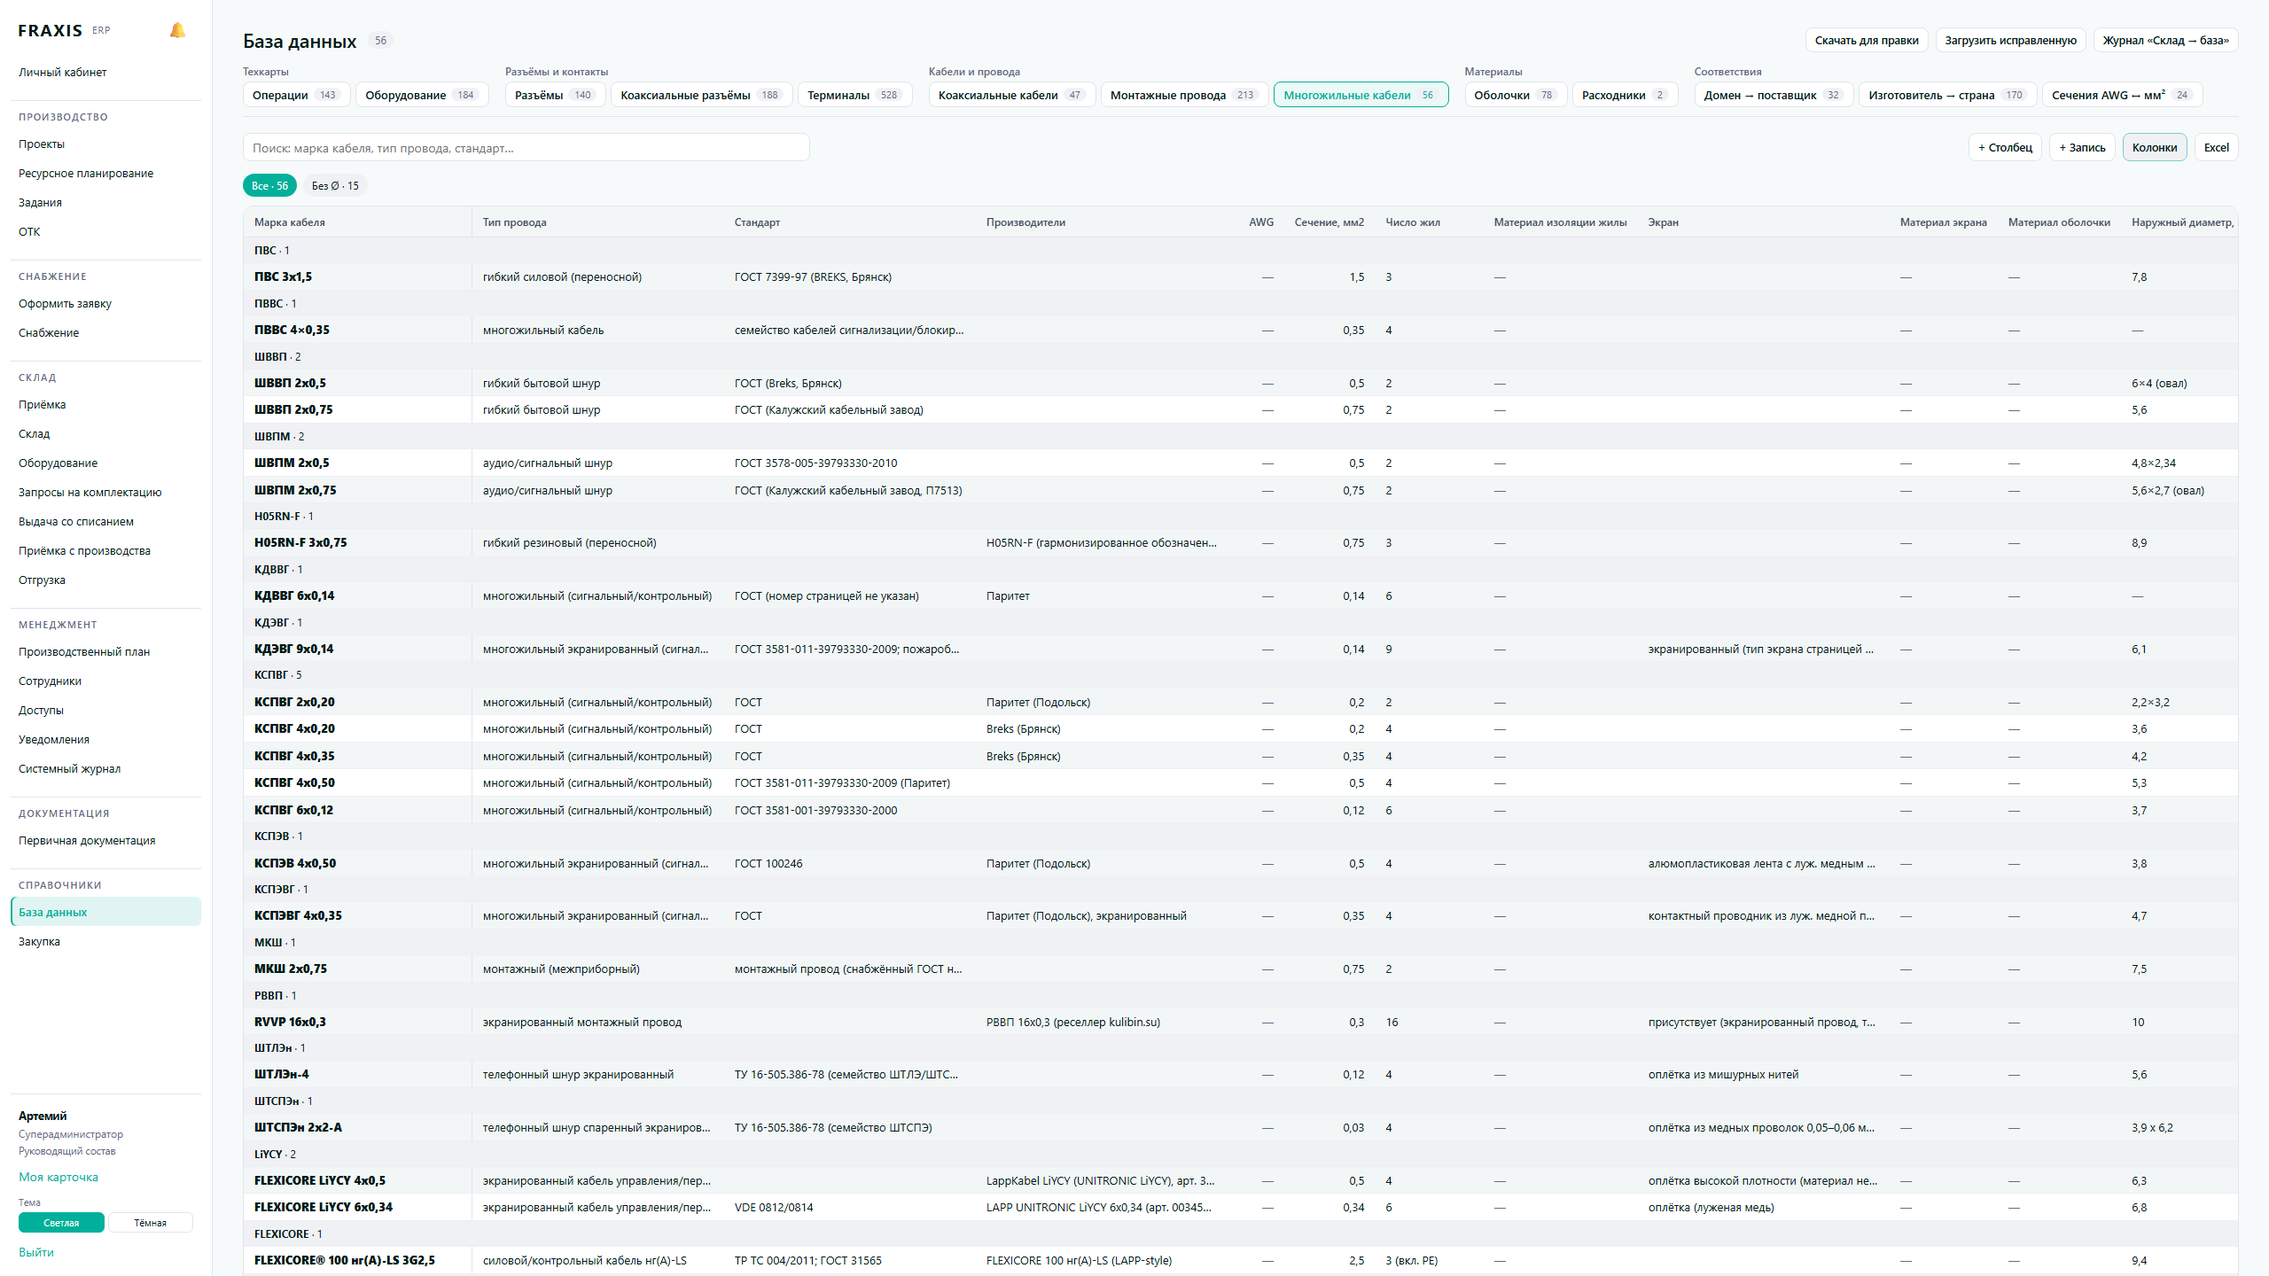
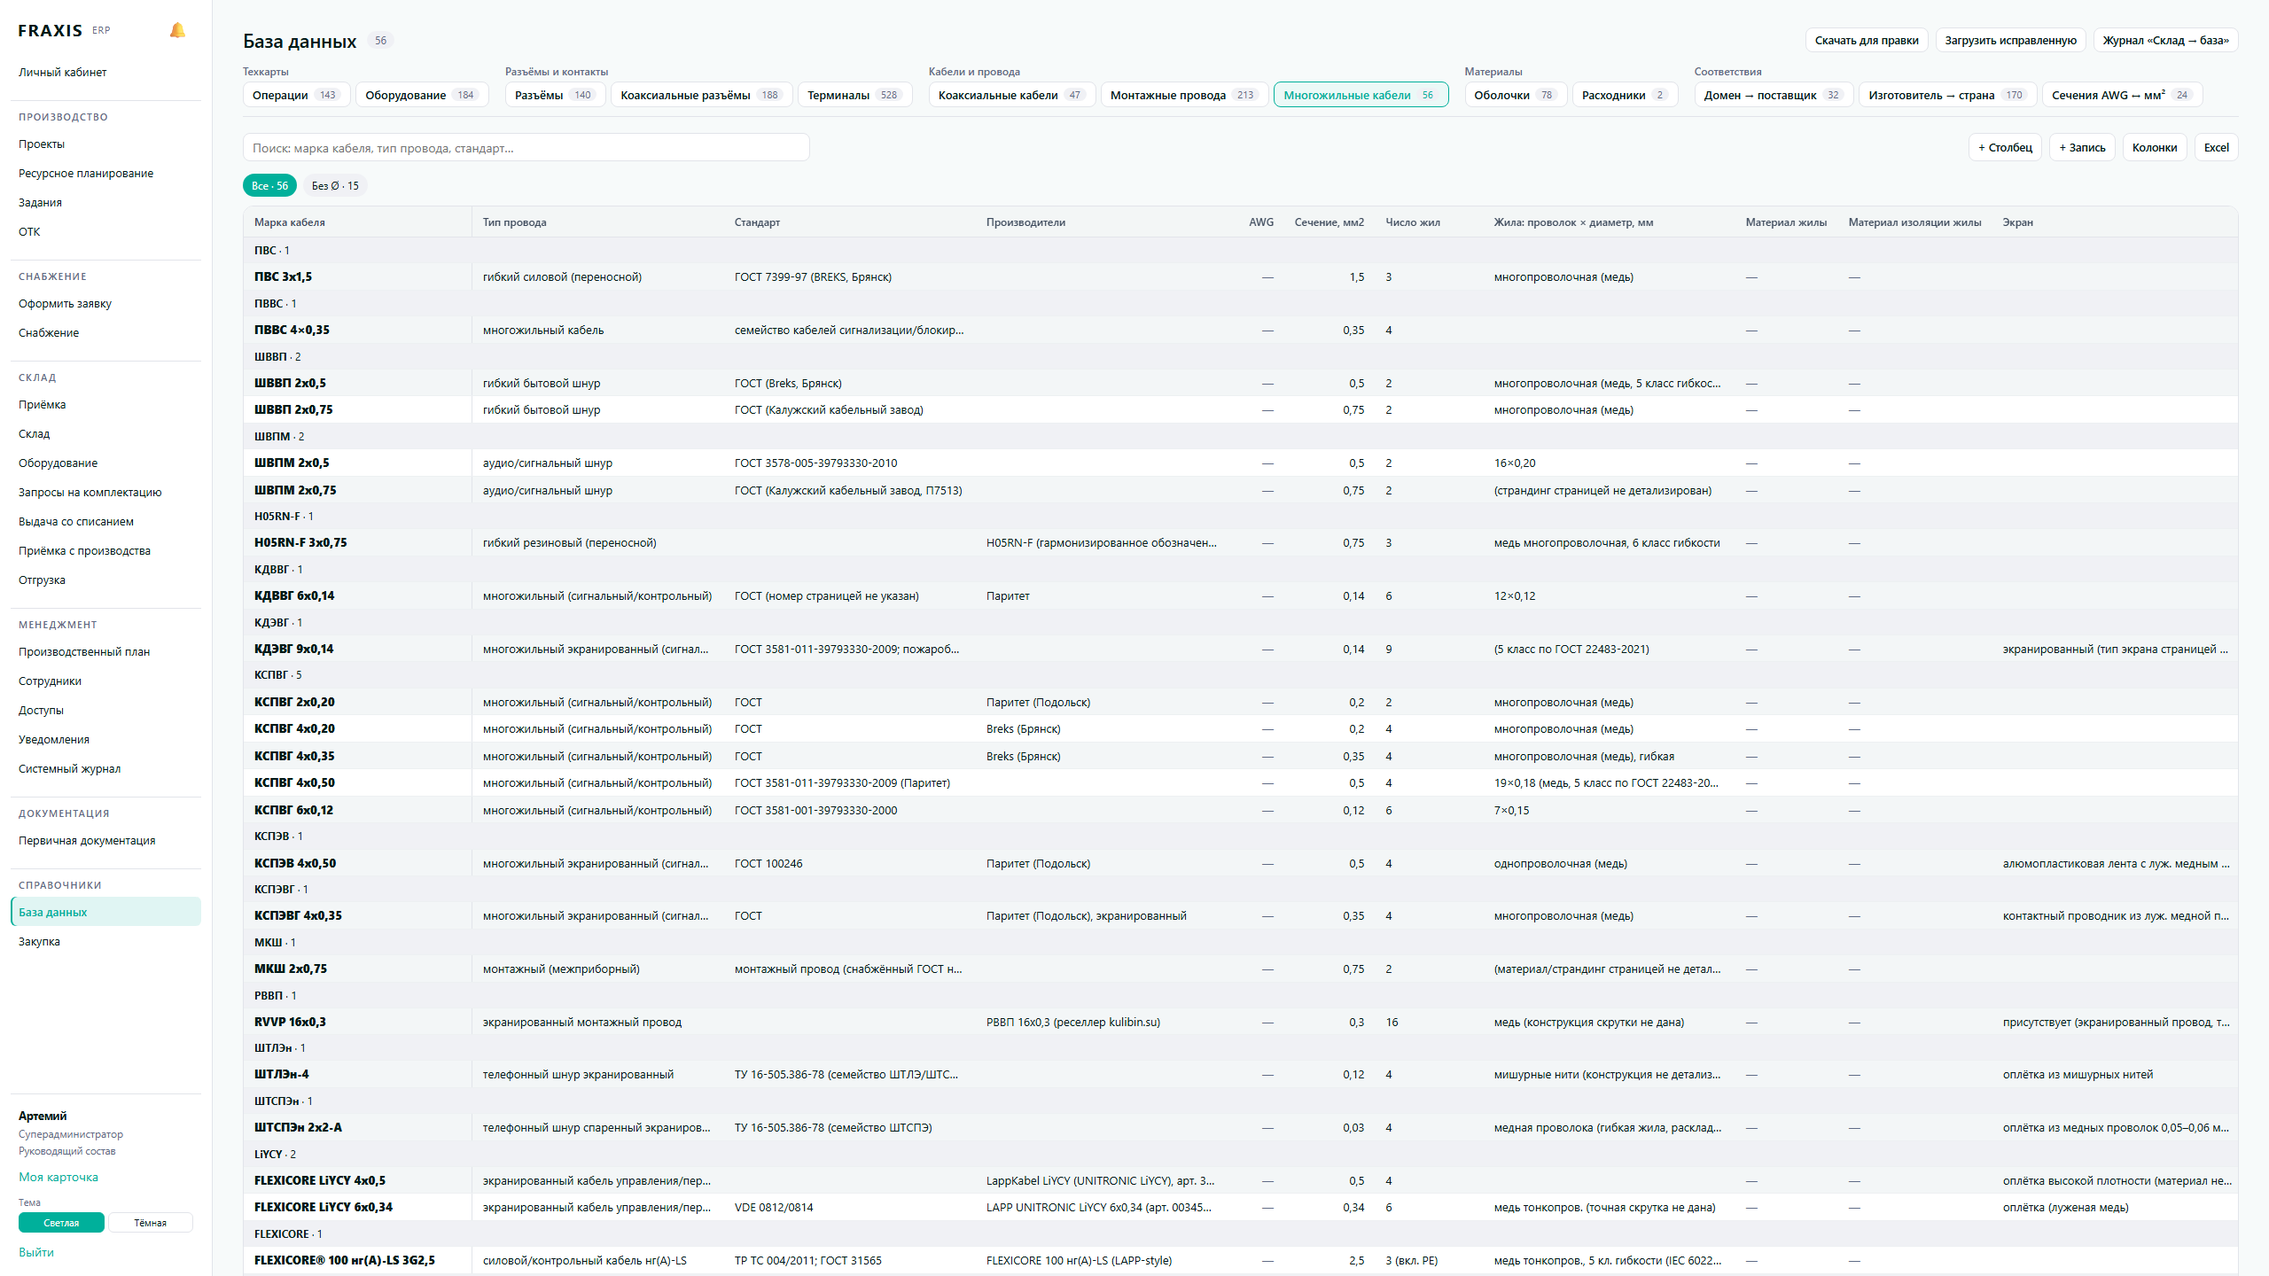
Многожильные: «Жила: проволок × диаметр» и «Материал жилы» остаются столбцами списка (25.10); снимки

diff --git a/frontend/src/cableColumnOrder.test.ts b/frontend/src/cableColumnOrder.test.ts
@@ -52,7 +52,7 @@ describe("cable column order", () => {
       "Цена поставщика, ₽/м", "Дата цены", "Ссылка на datasheet", "Полка", "__reason", "__kind"].map(column);
     const multi = arrangeCableColumns("multi", all, (key) => key === "Полка");
     expect(keys(multi)).toEqual([
-      "cable", "Тип провода", "Стандарт", "Материал изоляции жилы", "Экран", "Материал экрана", "Полка", "Поставщик", "Цена поставщика, ₽/м",
+      "cable", "Тип провода", "Стандарт", "Материал жилы", "Материал изоляции жилы", "Экран", "Материал экрана", "Полка", "Поставщик", "Цена поставщика, ₽/м",
       "Ссылка на datasheet",
     ]);
     expect(multi.every((item) => !item.hidden)).toBe(true);
@@ -66,12 +66,14 @@ describe("cable column order", () => {
       "strands", "core", "Материал жилы", "Материал оболочки", "outer", "voltage", "temp", "Масса, г/м", "Поставщик", "Артикул поставщика",
       "Цена поставщика, ₽/м", "Ссылка", "Ссылка на datasheet"]);
     expect([...CABLE_DEFAULT_SHOWN.multi]).toEqual(["cable", "Тип провода", "Стандарт", "Производители", "Число жил", "Сечение, мм2", "AWG",
-      "Материал изоляции жилы", "Экран", "Материал экрана", "Материал оболочки", "Наружный диаметр, мм", "Напряжение, В", "Масса, г/м",
+      "Жила: проволок × диаметр, мм", "Материал жилы", "Материал изоляции жилы", "Экран", "Материал экрана", "Материал оболочки", "Наружный диаметр, мм", "Напряжение, В", "Масса, г/м",
       "Темп. от, °C", "Темп. до, °C", "Поставщик", "Артикул поставщика", "Цена поставщика, ₽/м", "Ссылка", "Ссылка на datasheet"]);
     expect(CABLE_DEFAULT_SHOWN.coax.has("Частота до, ГГц") && CABLE_DEFAULT_SHOWN.coax.has("D3") && CABLE_DEFAULT_SHOWN.coax.has("Стандарт")).toBe(true);
     for (const gone of ["__op", "__fc", "__span", "__range", "__card", "__kind", "__reason", "Напряжение, В", "Цвета", "Дата цены"]) {
       expect(CABLE_DEFAULT_SHOWN.coax.has(gone)).toBe(false);
     }
-    expect(CABLE_DEFAULT_SHOWN.multi.has("Материал жилы") || CABLE_DEFAULT_SHOWN.multi.has("Цвета")).toBe(false);
+    expect(CABLE_DEFAULT_SHOWN.multi.has("Цвета")).toBe(false);
+    // the core construction of a multicore cable stays (owner 25.10: 100 % / 97 % filled)
+    expect(CABLE_DEFAULT_SHOWN.multi.has("Материал жилы") && CABLE_DEFAULT_SHOWN.multi.has("Жила: проволок × диаметр, мм")).toBe(true);
   });
 });

diff --git a/frontend/src/cableColumnOrder.ts b/frontend/src/cableColumnOrder.ts
@@ -54,8 +54,8 @@ export const CABLE_DEFAULT_SHOWN: Record<CableKind, ReadonlySet<string>> = {
   wire: new Set(["cable", "color", "series", "Тип провода", "Стандарт", "Производители", "awg", "section", "strands", "core",
     "Материал жилы", "Материал оболочки", "outer", "voltage", "temp", "Масса, г/м", "Поставщик", "Артикул поставщика", PRICE, "Ссылка",
     DATASHEET]),
-  multi: new Set(["cable", "Тип провода", "Стандарт", "Производители", "Число жил", "Сечение, мм2", "AWG", "Материал изоляции жилы",
-    "Экран", "Материал экрана", "Материал оболочки", "Наружный диаметр, мм", "Напряжение, В", "Масса, г/м", "Темп. от, °C", "Темп. до, °C",
+  multi: new Set(["cable", "Тип провода", "Стандарт", "Производители", "Число жил", "Сечение, мм2", "AWG", "Жила: проволок × диаметр, мм",
+    "Материал жилы", "Материал изоляции жилы", "Экран", "Материал экрана", "Материал оболочки", "Наружный диаметр, мм", "Напряжение, В", "Масса, г/м", "Темп. от, °C", "Темп. до, °C",
     "Поставщик", "Артикул поставщика", PRICE, "Ссылка", DATASHEET]),
   coax: new Set(["cable", "Тип провода", "Стандарт", "Производители", "Волновое сопротивление, Ом", "D1", "D2", "D3",
     "Жила: проволок × диаметр, мм", "Наружный диаметр, мм", "Материал жилы", "Материал диэлектрика", "Материал экрана",

diff --git a/frontend/src/CableTables.test.tsx b/frontend/src/CableTables.test.tsx
@@ -262,7 +262,7 @@ describe("coax column order (owner 23.10: «сделай сортировку н
     fireEvent.click(screen.getByRole("button", { name: /^Многожильные кабели/ }));
     await screen.findByText("КСПВГ 4x0,20");
     expect(heads()).toEqual([
-      "Марка кабеля", "Тип провода", "Стандарт", "Производители", "AWG", "Сечение, мм2", "Число жил", "Материал изоляции жилы", "Экран",
+      "Марка кабеля", "Тип провода", "Стандарт", "Производители", "AWG", "Сечение, мм2", "Число жил", "Материал жилы", "Материал изоляции жилы", "Экран",
       "Материал экрана", "Материал оболочки", "Наружный диаметр, мм", "Поставщик", "Артикул поставщика", "Цена поставщика, ₽/м",
     ]);
   });
@@ -1072,7 +1072,7 @@ describe("columns of each cable list (БД.ПРОВ cable_kind)", () => {
 
 describe("columns removed from a list 25.10 (owner: «всё, что без галочки, удаляй»)", () => {
   const REMOVED = { coax: ["Цвета", "Напряжение, В", "Источник данных"], wire: ["Закупок", "Источник данных", "Дата цены"],
-    multi: ["Цвета", "Материал жилы", "Источник данных"] };
+    multi: ["Цвета", "Дата цены", "Источник данных"] };
   const withRemoved = () => {
     mockApi();
     const answer = vi.mocked(globalThis.fetch).getMockImplementation()!;

diff --git a/backend/tests/references/test_cable_list_columns.py b/backend/tests/references/test_cable_list_columns.py
@@ -34,7 +34,8 @@ def test_each_list_has_its_cleaned_set_of_columns():
         "Темп. до, °C", "Поставщик", "Ссылка на datasheet",
     )
     assert CABLE_COLUMNS["multi"] == (
-        "Марка", "Тип провода", "Стандарт", "Производители", "AWG", "Сечение, мм2", "Число жил", "Экран",
+        "Марка", "Тип провода", "Стандарт", "Производители", "AWG", "Сечение, мм2", "Число жил",
+        "Жила: проволок × диаметр, мм", "Экран",
         "Наружный диаметр, мм", "Напряжение, В", "Масса, г/м", "Темп. от, °C", "Темп. до, °C", "Поставщик",
         "Ссылка на datasheet",
     )
@@ -47,11 +48,11 @@ def test_each_list_has_its_cleaned_set_of_columns():
     )
     supply = {"Цена посл., ₽/м без НДС", "Закупок", "Дата цены", "Источник данных"}
     assert CABLE_DROPPED["wire"] == supply
-    assert CABLE_DROPPED["multi"] == supply | {"Цвета", "Жила: проволок × диаметр, мм", "Материал жилы"}
+    assert CABLE_DROPPED["multi"] == supply | {"Цвета"}  # the core columns stay (owner 25.10: 100 % / 97 % filled)
     assert CABLE_DROPPED["coax"] == supply | {"Цвета", "Напряжение, В"}
     # a removed column is still a cell an existing row takes a write to
     assert all(supply <= set(CABLE_WRITABLE[kind]) for kind in CABLE_WRITABLE)
-    assert {"Цвета", "Материал жилы"} <= set(CABLE_WRITABLE["multi"])
+    assert {"Цвета", "Жила: проволок × диаметр, мм"} <= set(CABLE_WRITABLE["multi"])
 
 
 def test_the_removed_columns_are_no_column_of_their_list():
@@ -111,7 +112,7 @@ def _seed_prov(client) -> dict[str, dict]:
         {"tab": "prov", "display_text": row["Марка"], "source_sheet": "БД.ПРОВ", "fields": row} for row in PROV_ROWS
     ]}).status_code == 200
     # the owner's own columns as on prod (registered before 25.10, when «+ Столбец» still took them): «Дата цены» in
-    # every list, «Материал жилы» of the многожильные (both removed), «Материал оболочки» and the coax bend radius (kept)
+    # every list (removed), «Материал жилы» of the многожильные, «Материал оболочки» and the coax bend radius (kept)
     _register_own({"wire": ("Дата цены", "Материал оболочки"), "multi": ("Дата цены", "Материал жилы"),
                    "coax": ("Дата цены", "Радиус изгиба неподвижно, мм")})
     return _prov_records(client)
@@ -143,7 +144,7 @@ def test_the_cable_lists_send_no_removed_column_but_the_rows_keep_the_values(ref
     assert not CABLE_DROPPED["wire"] & set(body["columns_by_kind"]["wire"])
     assert not CABLE_DROPPED["multi"] & set(body["columns_by_kind"]["multi"])
     assert body["custom_columns_by_kind"]["wire"] == ["Материал оболочки"]
-    assert body["custom_columns_by_kind"]["multi"] == []
+    assert body["custom_columns_by_kind"]["multi"] == ["Материал жилы"]
     assert "Материал оболочки" in body["columns_by_kind"]["wire"]
     assert body["removed_columns_by_kind"]["wire"] == list(CABLE_WRITABLE["wire"][len(CABLE_COLUMNS["wire"]):])
     # the coax cable list: «Стандарт», «Масса», the bend radius, «Частота до» stay; «Дата цены», «Источник данных» go

diff --git a/backend/app/modules/references/domain.py b/backend/app/modules/references/domain.py
@@ -491,8 +491,8 @@ CABLE_MAX_GHZ_FIELD = "Частота до, ГГц"
 # column): nothing stays hidden — a column is shown or removed. Every list loses the service and stale supply columns
 # («Цена посл.», «Закупок», «Дата цены» — the price tooltip «Цена на <дата>» still reads it — and «Источник данных»);
 # the coax cables also «Цвета» and «Напряжение» (one frequency «Частота до» instead), the многожильные «Цвета» (the
-# jacket colour, 31 %) and the two core columns outside their «Только нужные» («Материал жилы», «Жила: проволок ×
-# диаметр»). «Стандарт» stays everywhere it was (the passport prints it). A removed column is no column of the list:
+# jacket colour, 31 %); their core columns «Жила: проволок × диаметр» (97 %) and «Материал жилы» (100 %) stay.
+# «Стандарт» stays everywhere it was (the passport prints it). A removed column is no column of the list:
 # not in the table, «Колонки», the create form, the file of «Скачать для правки» or `columns_by_kind`. Its values stay
 # in the records, and the readers (harness catalogue, the kind rule, item names, the price tooltip) read them as before;
 # an existing row still takes a write to it (`CABLE_WRITABLE`: the row's card and editor, `import_rows`, the prod-write
@@ -501,7 +501,7 @@ _SUPPLY_DROPPED = ("Цена посл., ₽/м без НДС", "Закупок",
 _PROV_DROPPED = {
     "coax": ("Цвета", "Напряжение, В", *_SUPPLY_DROPPED),
     "wire": _SUPPLY_DROPPED,
-    "multi": ("Цвета", "Жила: проволок × диаметр, мм", "Материал жилы", *_SUPPLY_DROPPED),
+    "multi": ("Цвета", *_SUPPLY_DROPPED),
 }
 CABLE_DROPPED: dict[str, frozenset[str]] = {kind: frozenset(names) for kind, names in _PROV_DROPPED.items()}
 CABLE_COLUMNS: dict[str, tuple[str, ...]] = {
